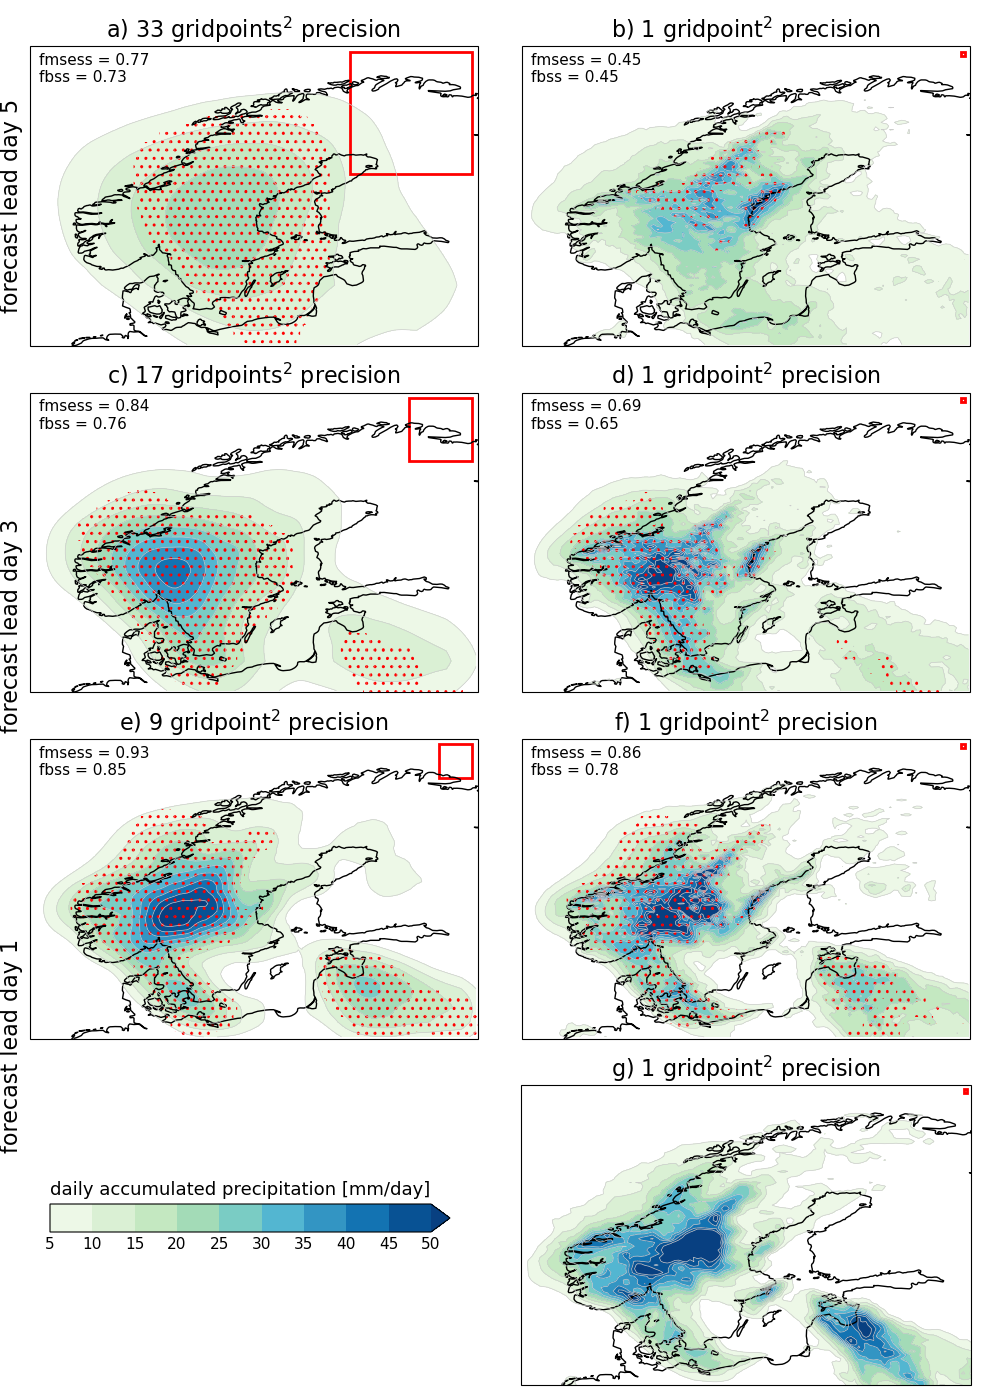
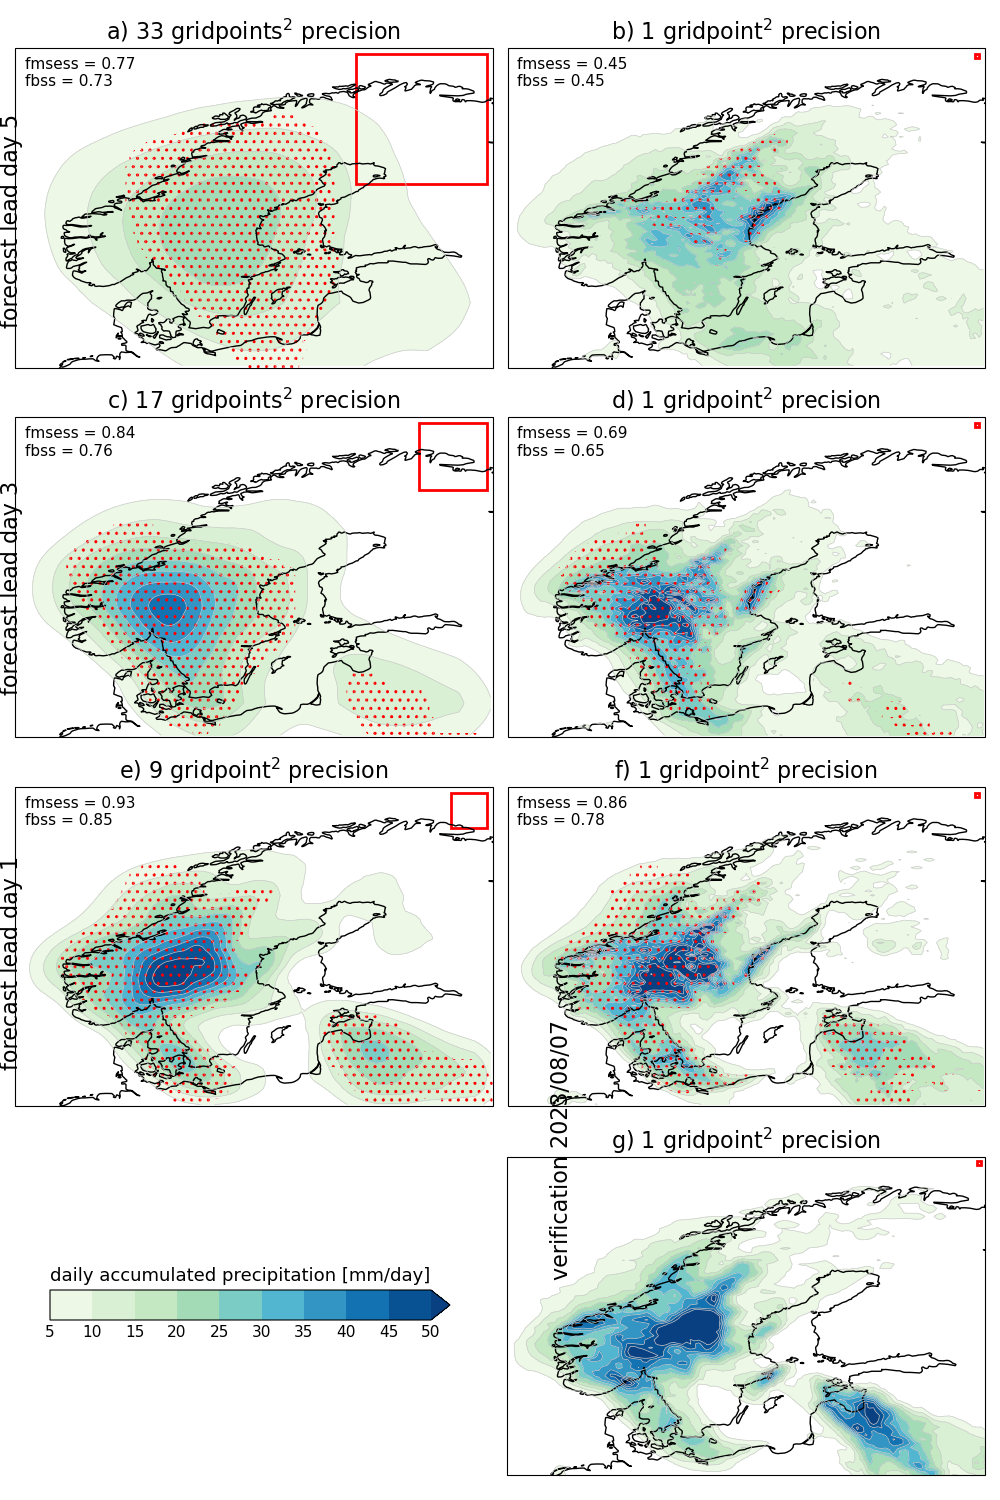
update

diff --git a/code/plot/plot-fig-05-new.py b/code/plot/plot-fig-05-new.py
@@ -89,7 +89,7 @@ da7[variable] = da7[variable]*1000
 fontsize = 11
 clevs    = np.arange(5,55,5)
 cmap     = 'GnBu'
-figsize  = np.array([10,14])
+figsize  = np.array([10,15])
 fig,ax   = plt.subplots(nrows=4,ncols=2,figsize=(figsize[0],figsize[1]),subplot_kw={'projection': ccrs.PlateCarree(central_longitude=0.0)})
 ax       = ax.ravel()
 
@@ -128,9 +128,10 @@ cb = fig.colorbar(p, cax=cbar_ax, orientation='horizontal',ticks=clevs, pad=0.02
 cb.ax.tick_params(labelsize=fontsize, size=0)
 cb.ax.set_title('daily accumulated precipitation [mm/day]', fontsize=fontsize+2,y=1.01)
 
-fig.text(0.0,0.78,'forecast lead day 5',rotation=90,fontsize=fontsize+5)
-fig.text(0.0,0.48,'forecast lead day 3',rotation=90,fontsize=fontsize+5)
-fig.text(0.0,0.18,'forecast lead day 1',rotation=90,fontsize=fontsize+5)
+fig.text(0.0,0.785,'forecast lead day 5',rotation=90,fontsize=fontsize+5)
+fig.text(0.0,0.54,'forecast lead day 3',rotation=90,fontsize=fontsize+5)
+fig.text(0.0,0.29,'forecast lead day 1',rotation=90,fontsize=fontsize+5)
+fig.text(0.55,0.15,r'verification 2023/08/07',rotation=90,fontsize=fontsize+5)
 
 plt.tight_layout()
 if write2file: plt.savefig(path_out + figname_out)
